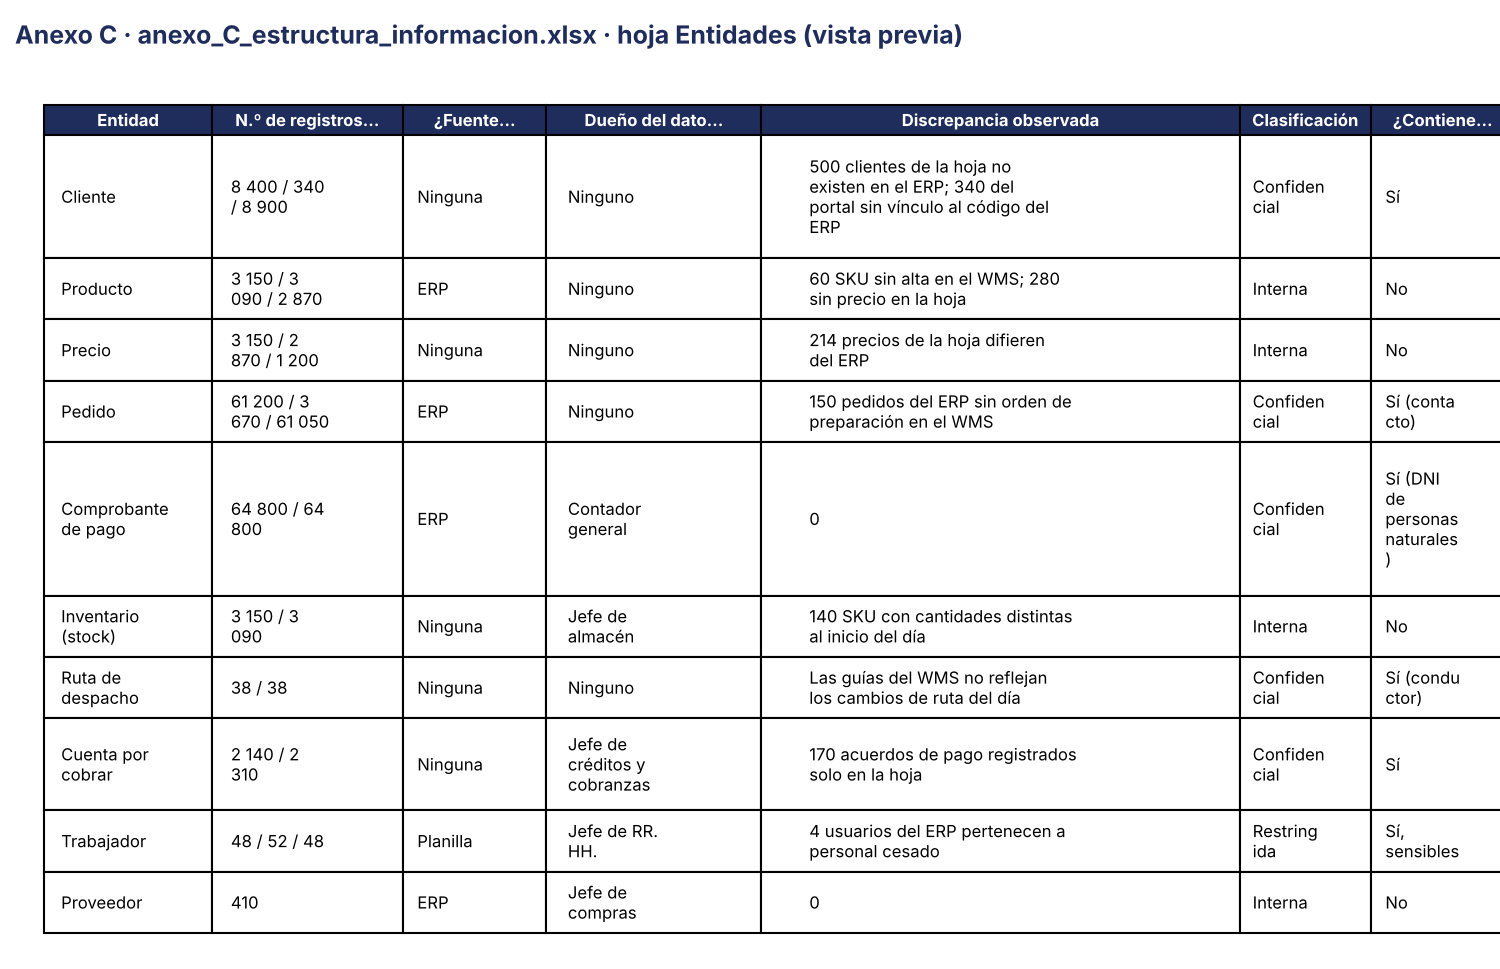
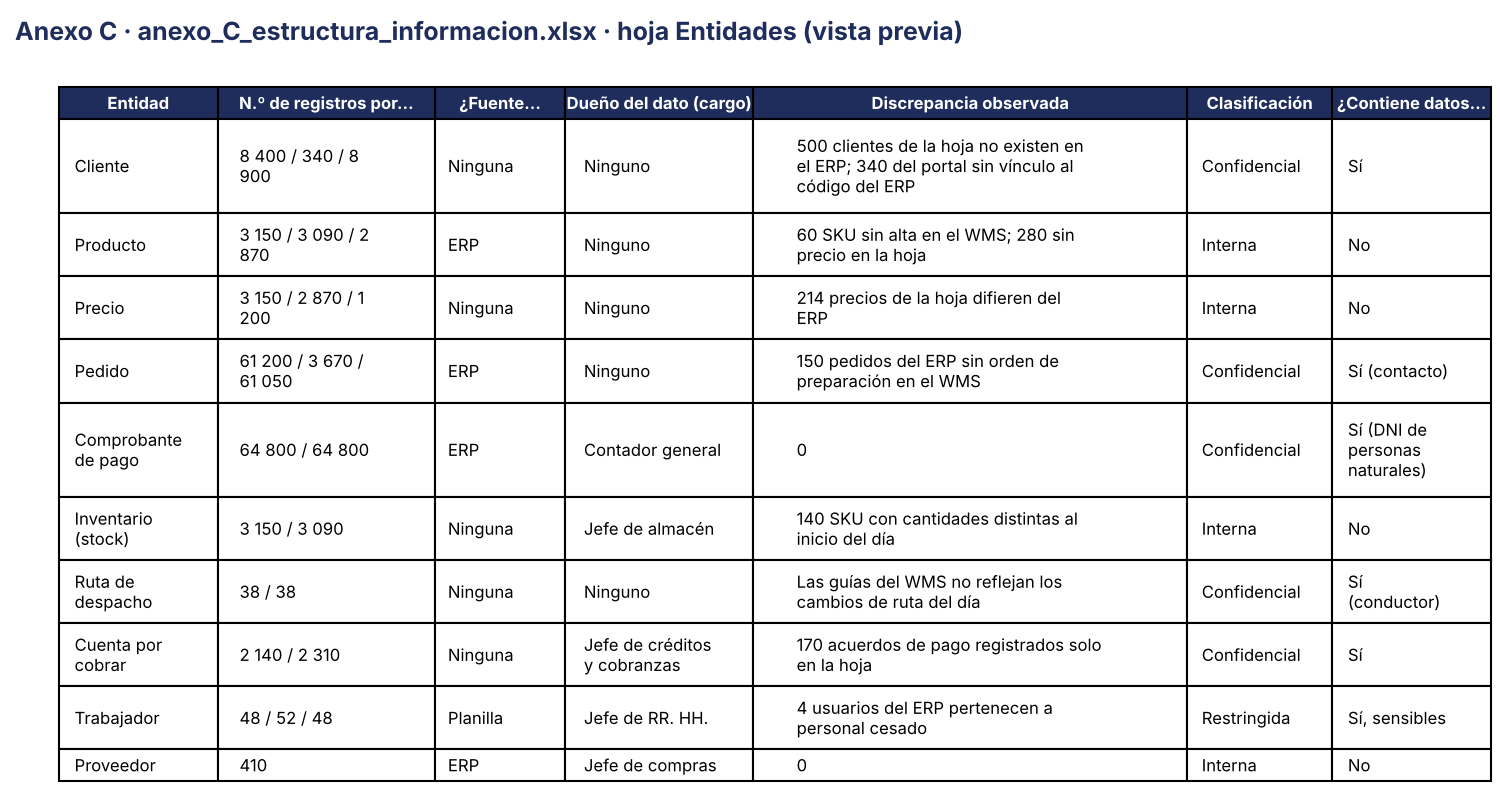
S10: ajusta las vistas previas de los anexos C y E

diff --git a/05_arquitectura/AR07_capturas.py b/05_arquitectura/AR07_capturas.py
@@ -74,13 +74,13 @@ def vista_previa(xlsx, hoja, columnas, anchos, png, titulo, filas=None):
     df = pd.read_excel(S10 / xlsx, sheet_name=hoja, header=3)[columnas].dropna(how="all")
     if filas:
         df = df.head(filas)
-    celdas = [[textwrap.fill(str(v), max(int(a * 0.8), 3)) for v, a in zip(fila, anchos)] for fila in df.itertuples(index=False)]
+    celdas = [[textwrap.fill(str(v), max(int(a * 1.25), 3), break_long_words=False) for v, a in zip(fila, anchos)] for fila in df.itertuples(index=False)]
     alto = sum(max(c.count("\n") + 1 for c in fila) for fila in celdas)
     fig = plt.figure(figsize=(10, 1.0 + alto * 0.21))
-    ax = fig.add_axes([0.01, 0.01, 0.98, 0.9])
+    ax = fig.add_axes([0.02, 0.01, 0.955, 0.9])
     ax.axis("off")
     fig.suptitle(titulo, fontsize=12, fontweight="bold", color="#1F2D5C", x=0.01, ha="left")
-    t = ax.table(cellText=celdas, colLabels=[textwrap.shorten(c, a + 2, placeholder="…") for c, a in zip(columnas, anchos)],
+    t = ax.table(cellText=celdas, colLabels=[textwrap.shorten(c, int(a * 1.5) + 3, placeholder="…") for c, a in zip(columnas, anchos)],
                  loc="upper left", cellLoc="left",
                  colWidths=[a / sum(anchos) for a in anchos])
     t.auto_set_font_size(False)
@@ -118,7 +118,7 @@ if __name__ == "__main__":
     print("AR07 · Vistas previas de los anexos:")
     vista_previa("anexo_C_estructura_informacion.xlsx", "Entidades",
                  ["Entidad", "N.º de registros por sistema", "¿Fuente autoritativa?", "Dueño del dato (cargo)", "Discrepancia observada", "Clasificación", "¿Contiene datos personales?"],
-                 [14, 16, 12, 18, 40, 11, 12], "preview_anexo_C.png", "Anexo C · anexo_C_estructura_informacion.xlsx · hoja Entidades (vista previa)")
+                 [11, 15, 9, 13, 30, 10, 11], "preview_anexo_C.png", "Anexo C · anexo_C_estructura_informacion.xlsx · hoja Entidades (vista previa)")
     vista_previa("anexo_E_analisis_brechas.xlsx", "Brechas", ["id", "capa", "brecha", "tipo", "esfuerzo_sem", "dependencias", "paquete"],
-                 [5, 10, 44, 9, 8, 16, 7], "preview_anexo_E.png", "Anexo E · anexo_E_analisis_brechas.xlsx · hoja Brechas (vista previa)")
+                 [4, 8, 36, 7, 5, 12, 5], "preview_anexo_E.png", "Anexo E · anexo_E_analisis_brechas.xlsx · hoja Brechas (vista previa)")
     vista_previa_pdf("anexo_F_seccion_5.pdf", "preview_anexo_F.png")
